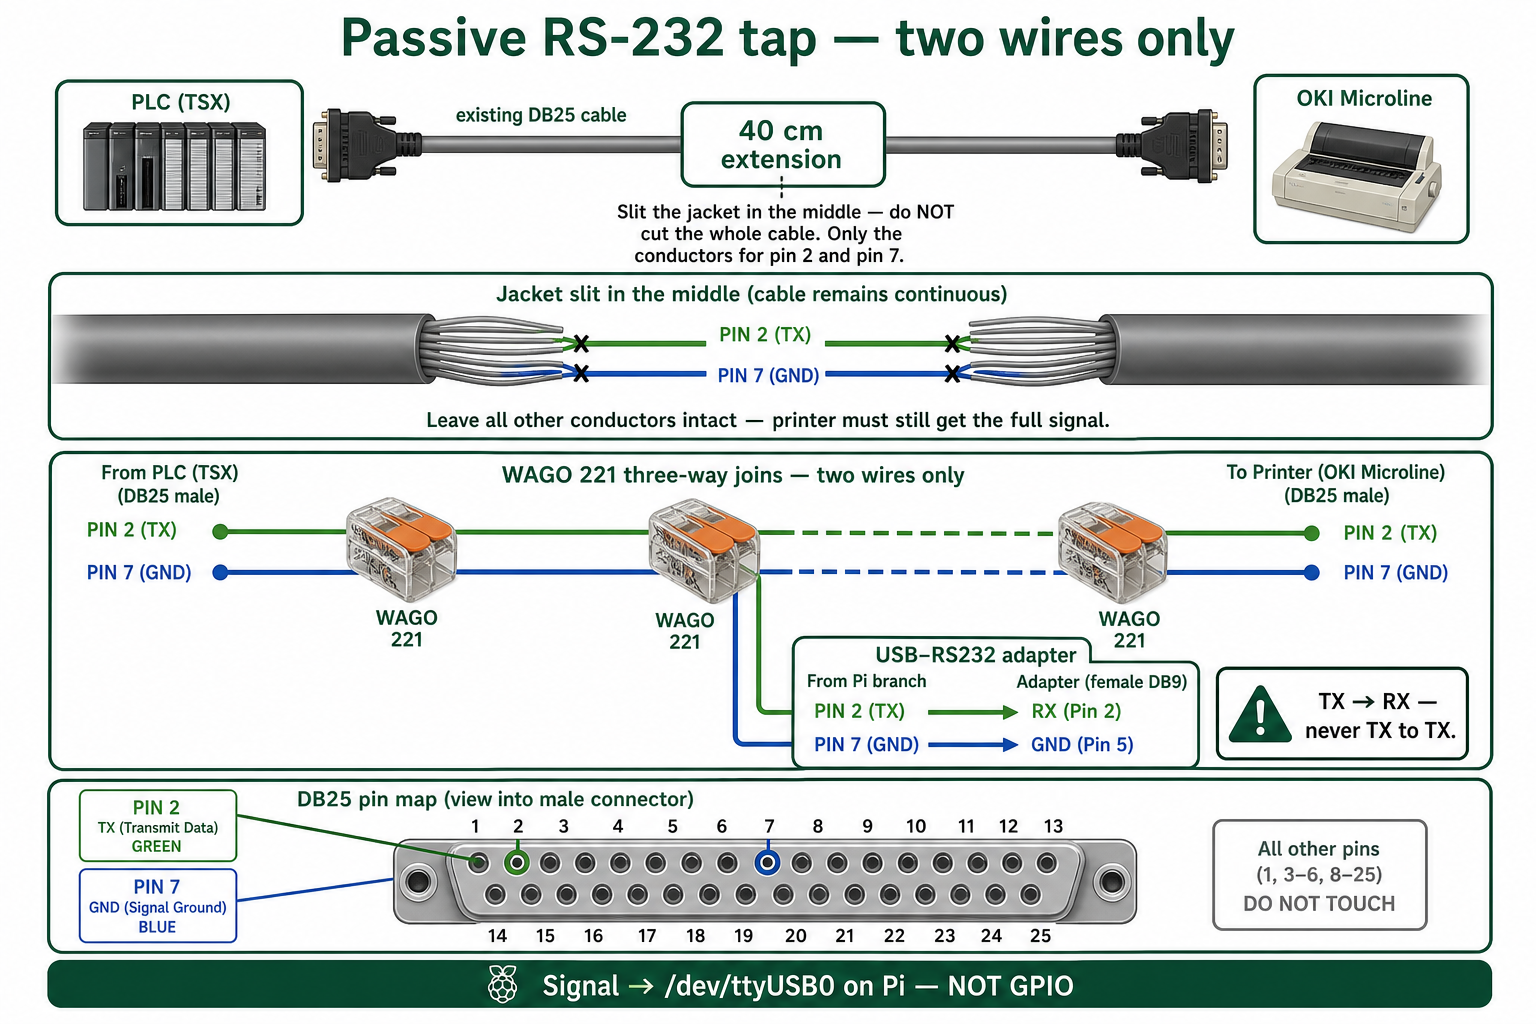
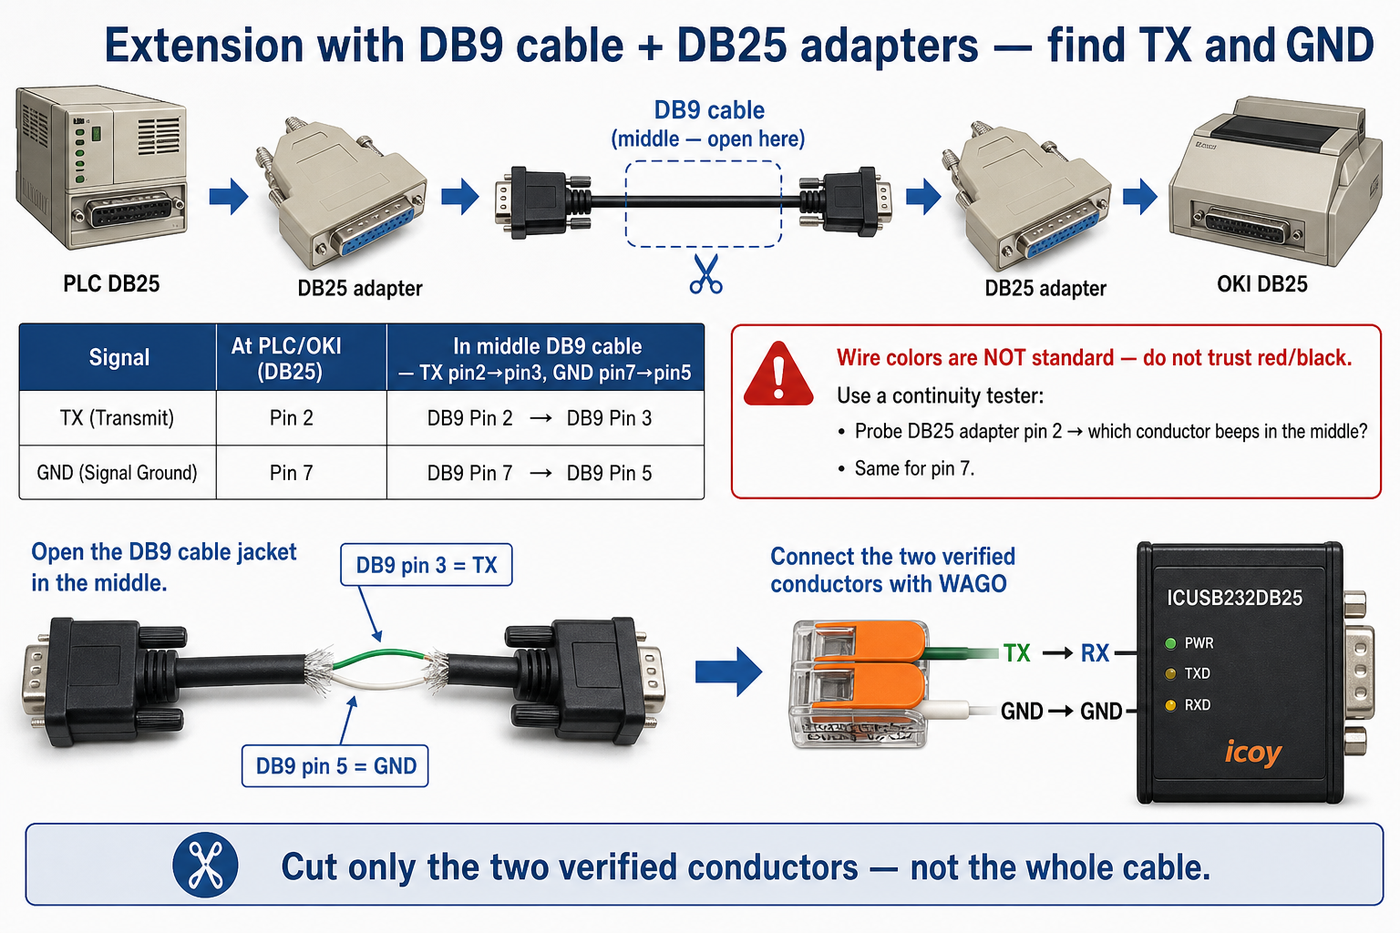
DB9-skjøt med DB25-adaptere: pin-mapping og pipetest for farger
PLS/OKI er DB25; midtkabel ofte DB9. TX/GND = DB25 2/7 = DB9 3/5.
Dokumenterer at lederfarger ikke er standard — finn med kontinuitet.

diff --git a/docs/en/wiring.md b/docs/en/wiring.md
@@ -1,17 +1,41 @@
 # Wiring
 
-<img src="img/passive-rs232-tap.png" width="100%" alt="Passive RS-232 tap"/>
+<img src="img/passive-rs232-tap.png" width="100%" alt="Passive RS-232 tap — DB9 middle / DB25 ends"/>
 
-Insert **40 cm DB25 M→F extension** between the existing PLC cable and the OKI printer port.
+## What you have
 
-**Slit the jacket** mid-extension — **do not cut the whole cable through**. Pull out and cut **only** these two conductors (leave all others intact):
+| Part | Connector |
+|------|-----------|
+| PLC and OKI | **DB25** |
+| Extension (middle) | Often a **DB9** cable with **DB25 adapters** on each end |
+| Pi listen | **StarTech ICUSB232DB25** (USB → DB25) |
 
-| Pin | |
-|:--|:--|
-| **2** | Data / TX (PLC → printer) |
-| **7** | Ground |
+The signals to tap are still **DB25 pin 2 (TX)** and **pin 7 (GND)** at the PLC/printer.  
+In the DB9 middle section that maps to:
 
-**WAGO 221** — three wires in each clamp:
+| Signal | DB25 (PLC/OKI / adapter) | DB9 (conductor in middle) |
+|--------|--------------------------|---------------------------|
+| TX (data PLC→printer) | **2** | **3** |
+| GND | **7** | **5** |
+
+## Wire colors — do not trust them
+
+Cheap extensions use **different colors**. There is no reliable “red = TX” rule.
+
+**Find the conductors with a continuity tester:**
+
+1. Insert the extension (or hold the DB25 adapter).
+2. Probe **metal pin 2** on the DB25 end (TX).
+3. Probe the thin conductors mid-cable (jacket opened) — the one that beeps is **TX**.
+4. Repeat with **pin 7** → that is **GND**.
+5. Mark both with tape before cutting.
+
+## Tap (two conductors only)
+
+**Slit the jacket** on the DB9 middle — **do not cut the whole cable through**.  
+Cut **only** the two conductors you verified (TX + GND). Leave all others intact.
+
+**WAGO 221** — three ends in each clamp:
 
 ```
 PLC side ──┐
@@ -19,13 +43,15 @@ PLC side ──┐
 Pi branch ─┘
 ```
 
-Connect Pi branch to StarTech ICUSB232DB25:
+## On to the ICUSB232DB25
 
-| From WAGO | To adapter |
-|:--|:--|
-| Data (pin 2) | **RX** |
-| GND (pin 7) | **GND** |
+| From WAGO | To StarTech ICUSB232DB25 |
+|-----------|--------------------------|
+| TX (DB25 pin 2 / DB9 pin 3) | **RX** |
+| GND (DB25 pin 7 / DB9 pin 5) | **GND** |
 
-Secure the splice in the cable tray. Never leave WAGO hanging loose.
+TX → RX — never TX to TX. StarTech USB into the hub → `/dev/ttyUSB0`.
+
+Secure the splice in the cable tray. Never leave a WAGO hanging loose.
 
 *Norwegian: [docs/no/wiring.md](../no/wiring.md)*

diff --git a/docs/no/wiring.md b/docs/no/wiring.md
@@ -1,17 +1,41 @@
 # Kobling
 
-<img src="img/passiv-rs232-tapp.png" width="100%" alt="Passiv RS-232-tapp"/>
+<img src="img/passiv-rs232-tapp.png" width="100%" alt="Passiv RS-232-tapp DB9 midt / DB25 ender"/>
 
-Sett inn **40 cm DB25 hann→hunn skjøtekabel** mellom eksisterende PLS-kabel og OKI-skriverens port.
+## Hva du har
 
-**Åpne kappen** midt på skjøten — **klipp ikke hele kabelen over**. Trekk ut og klipp **kun** disse to lederne (andre ledere urørt):
+| Del | Kontakt |
+|-----|---------|
+| PLS og OKI | **DB25** |
+| Skjøtekabel (midt) | Ofte **DB9**-kabel med **DB25-adapter** i hver ende |
+| Pi-lytting | **StarTech ICUSB232DB25** (USB → DB25) |
 
-| Pinne | |
-|:--|:--|
-| **2** | Datalinja / TX (PLS → skriver) |
-| **7** | Jord (GND) |
+Signalet som skal tappes er fortsatt **DB25 pin 2 (TX)** og **pin 7 (GND)** på PLS/OKI-siden.  
+I DB9-midten tilsvarer det:
 
-**WAGO 221** — tre ledninger i hver klemme:
+| Signal | DB25 (PLS/OKI / adapter) | DB9 (leder midt i skjøten) |
+|--------|--------------------------|----------------------------|
+| TX (data PLS→skriver) | **2** | **3** |
+| GND | **7** | **5** |
+
+## Farger — ikke stol på dem
+
+Billige skjøter bruker **ulike farger**. Det finnes ingen pålitelig «rød = TX»-regel.
+
+**Finn lederne slik (multimeter / pipetest):**
+
+1. Sett skjøten inn (eller hold DB25-adapteren i hånden).
+2. Sett den ene Proben på **metallpinne 2** i DB25-enden (TX).
+3. Pip deg gjennom de tynne lederne midt i kabelen (kappen åpnet) — den som piper er **TX**.
+4. Gjenta med **pinne 7** → det er **GND**.
+5. Merk de to lederne med tape før du klipper.
+
+## Tapp (kun to ledere)
+
+**Åpne kappen** midt på DB9-delen — **klipp ikke hele kabelen over**.  
+Klipp **kun** de to lederne du har verifisert (TX + GND). Alle andre urørt.
+
+**WAGO 221** — tre ender i hver klemme:
 
 ```
 PLS-side ──┐
@@ -19,12 +43,14 @@ PLS-side ──┐
 Pi-gren ───┘
 ```
 
-Koble Pi-grenen til StarTech ICUSB232DB25:
+## Videre til ICUSB232DB25
 
-| Fra WAGO | Til adapter |
-|:--|:--|
-| Data (pin 2) | **RX** |
-| GND (pin 7) | **GND** |
+| Fra WAGO | Til StarTech ICUSB232DB25 |
+|----------|---------------------------|
+| TX (fra DB25 pin 2 / DB9 pin 3) | **RX** |
+| GND (fra DB25 pin 7 / DB9 pin 5) | **GND** |
+
+TX → RX — aldri TX til TX. USB-enden av StarTech i huben → `/dev/ttyUSB0`.
 
 Fest skjøten i kabelrenna. La aldri WAGO henge løst.
 

diff --git a/README.md b/README.md
@@ -93,10 +93,10 @@ selv når skriveren er av.
 <img src="docs/no/img/signal-flow.png" width="100%" alt="Systemarkitektur"/>
 
 <p style="font-size: 16px; line-height: 1.5">
-Tappen er <b>fysisk skrivebeskyttet</b>: åpne kappen på 40&nbsp;cm skjøten og klipp
-<b>kun</b> lederne for pinne 2 (TX) og 7 (GND) — ikke hele kabelen. WAGO tre veier;
-TX → adapter-<b>RX</b>. Signal til <code>/dev/ttyUSB0</code>, ikke GPIO.
-Skriveren fortsetter som før.
+Tappen er <b>fysisk skrivebeskyttet</b>: åpne kappen på skjøten (DB9-midt med
+DB25-ender er vanlig) og klipp <b>kun</b> TX+GND — DB25 pin 2/7 (= DB9 pin 3/5).
+Finn leder med pipetest (farger er ikke standard). WAGO tre veier; TX →
+ICUSB232DB25-<b>RX</b>. Signal til <code>/dev/ttyUSB0</code>, ikke GPIO.
 </p>
 
 ---
@@ -161,7 +161,7 @@ USB-hub + tastatur + minnepenn · valgfri SSD1306 OLED.
 Full delerliste i <a href="docs/no/INSTALLATION.md">installasjonsguiden</a>.
 </p>
 
-<p style="font-size: 15px; margin-bottom: 0.4em"><b>1 · Passiv tapp</b> — åpne kappen, klipp <b>kun</b> leder pin 2 (TX) og 7 (GND). Ikke hele kabelen. WAGO, TX→RX. Ikke GPIO.</p>
+<p style="font-size: 15px; margin-bottom: 0.4em"><b>1 · Passiv tapp</b> — PLS/OKI er DB25; skjøt kan være DB9-kabel med DB25-adaptere. Tapp TX/GND (DB25 pin 2/7 = DB9 pin 3/5). Finn leder med pipetest — farger er ikke standard. WAGO, TX→RX på ICUSB232DB25.</p>
 <img src="docs/no/img/passiv-rs232-tapp.png" width="100%" alt="Passiv RS-232-tapp"/>
 
 <p style="font-size: 15px; margin-bottom: 0.4em"><b>2 · USB-kjede</b> — WAGO-tapp → <b>ICUSB232DB25</b> → hub (med tastatur + penn). PWR IN = strøm (≥2,5 A); data-port → OTG → hub.</p>

diff --git a/docs/en/INSTALLATION.md b/docs/en/INSTALLATION.md
@@ -94,8 +94,8 @@ See also: [wiring.md](wiring.md)
 Step by step:
 
 1. **Insert the 40 cm extension** between the printer's DB25 port and the existing cable from the sorting plant. Take a photo of the original connection first.
-2. **Mid-cable, slit the jacket** (do **not** cut the whole cable through). Identify **pin 2 (TX)** and **pin 7 (GND)**. Photograph colour coding before cutting.
-3. **Cut only those two conductors** — all other wires stay intact so the printer still gets the full signal.
+2. **Mid-cable, slit the jacket** (often a DB9 cable with DB25 adapters — do **not** cut the whole cable through). Find TX/GND with a **continuity tester** from DB25 pins **2** and **7** (in the DB9 middle = pins **3** and **5**). Colors are not standard — mark wires before cutting.
+3. **Cut only those two conductors** — leave all others intact so the printer still gets the full signal.
 4. **WAGO-join three ends per clamp**: PLC side + printer side + one new thin wire to the USB-serial adapter.
 5. **Secure the splice** with cable ties in the cable tray. Mark the active cable with tape.
 

diff --git a/docs/no/INSTALLATION.md b/docs/no/INSTALLATION.md
@@ -132,8 +132,8 @@ Se også: [wiring.md](wiring.md)
 Steg for steg:
 
 1. **Sett inn 40 cm skjøtekabel** mellom skriverens DB25 og eksisterende kabel fra sorteringsanlegget. Ta bilde av originaltilkoblingen først.
-2. **Åpne kappen** midt på skjøten (klipp **ikke** hele kabelen over). Finn lederne for **pinne 2 (TX)** og **pinne 7 (GND)**. Fotografer fargekoding før klipping.
-3. **Klipp kun disse to lederne** — alle andre ledere urørt, så skriveren fortsatt får hele signalet.
+2. **Åpne kappen** midt på skjøten (ofte DB9-kabel med DB25-adaptere — klipp **ikke** hele kabelen over). Finn TX/GND med **pipetest** fra DB25-pinne **2** og **7** (i DB9-midten = pin **3** og **5**). Farger er ikke standard — merk lederne før klipping.
+3. **Klipp kun disse to lederne** — alle andre urørt, så skriveren fortsatt får hele signalet.
 4. **WAGO: tre ender per klemme** — PLS-side + skriver-side (signalet går ubrutt) + ny tynn ledning til USB-serieadapter.
 5. **Fest skjøten** med strips i kabelrenna — la aldri WAGO henge løst. Merk aktiv kabel med tape.
 

diff --git a/README.en.md b/README.en.md
@@ -133,7 +133,7 @@ Raspberry Pi Zero WH · StarTech ICUSB232DB25 · WAGO 221 · 40 cm DB25 extensio
 USB hub + keyboard + flash drive · optional SSD1306 OLED.
 Full parts list in the [installation guide](docs/en/INSTALLATION.md).
 
-<p style="font-size: 15px; margin-bottom: 0.4em"><b>1 · Passive tap</b> — slit the jacket; cut <b>only</b> pin 2 (TX) and pin 7 (GND) conductors. Not the whole cable. WAGO, TX→RX. Not GPIO.</p>
+<p style="font-size: 15px; margin-bottom: 0.4em"><b>1 · Passive tap</b> — PLC/OKI are DB25; the extension may be a DB9 cable with DB25 adapters. Tap TX/GND (DB25 pins 2/7 = DB9 pins 3/5). Find wires with continuity — colors are not standard. WAGO, TX→RX on ICUSB232DB25.</p>
 <img src="docs/en/img/passive-rs232-tap.png" width="100%" alt="Passive RS-232 tap"/>
 
 <p style="font-size: 15px; margin-bottom: 0.4em"><b>2 · USB chain</b> — WAGO tap → <b>ICUSB232DB25</b> → hub (with keyboard + stick). PWR IN = power (≥2.5 A); data port → OTG → hub.</p>
